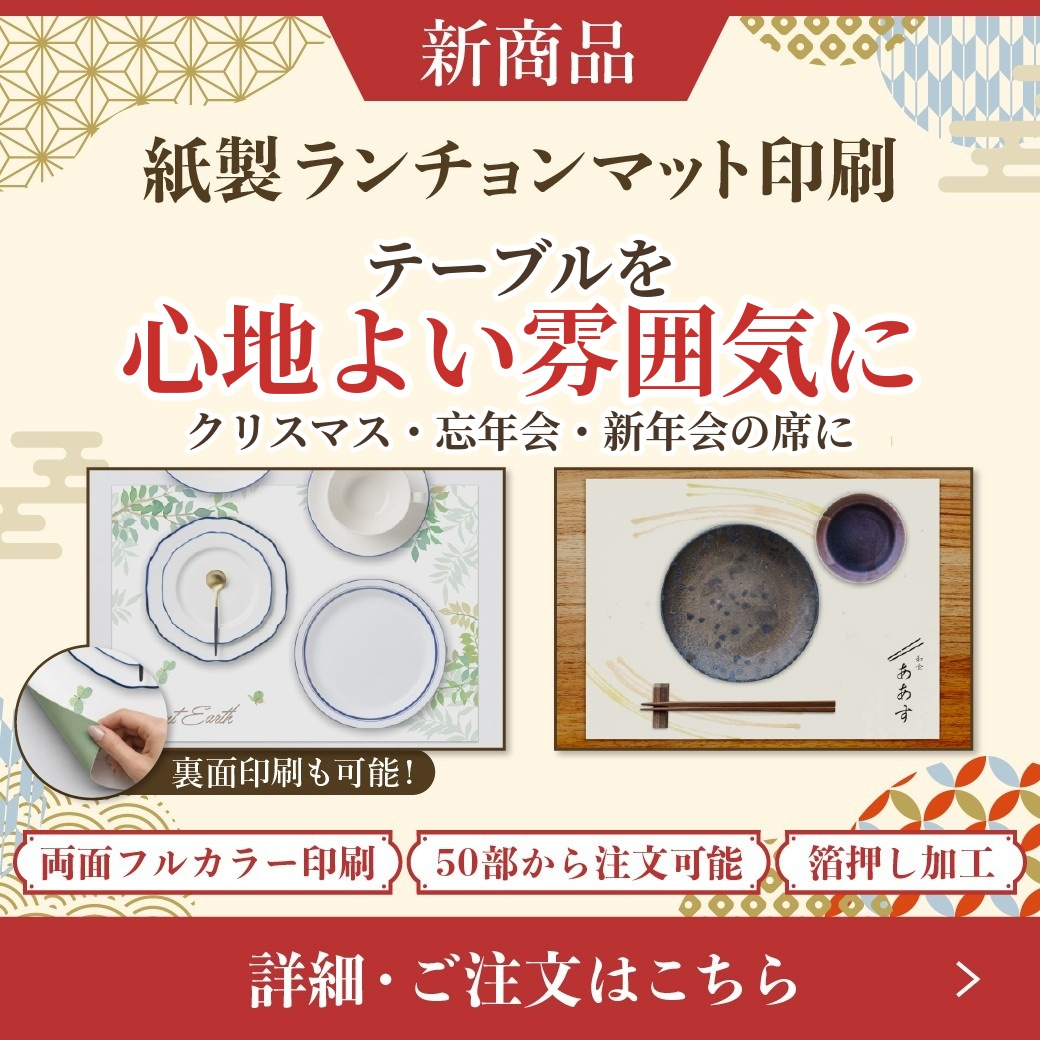
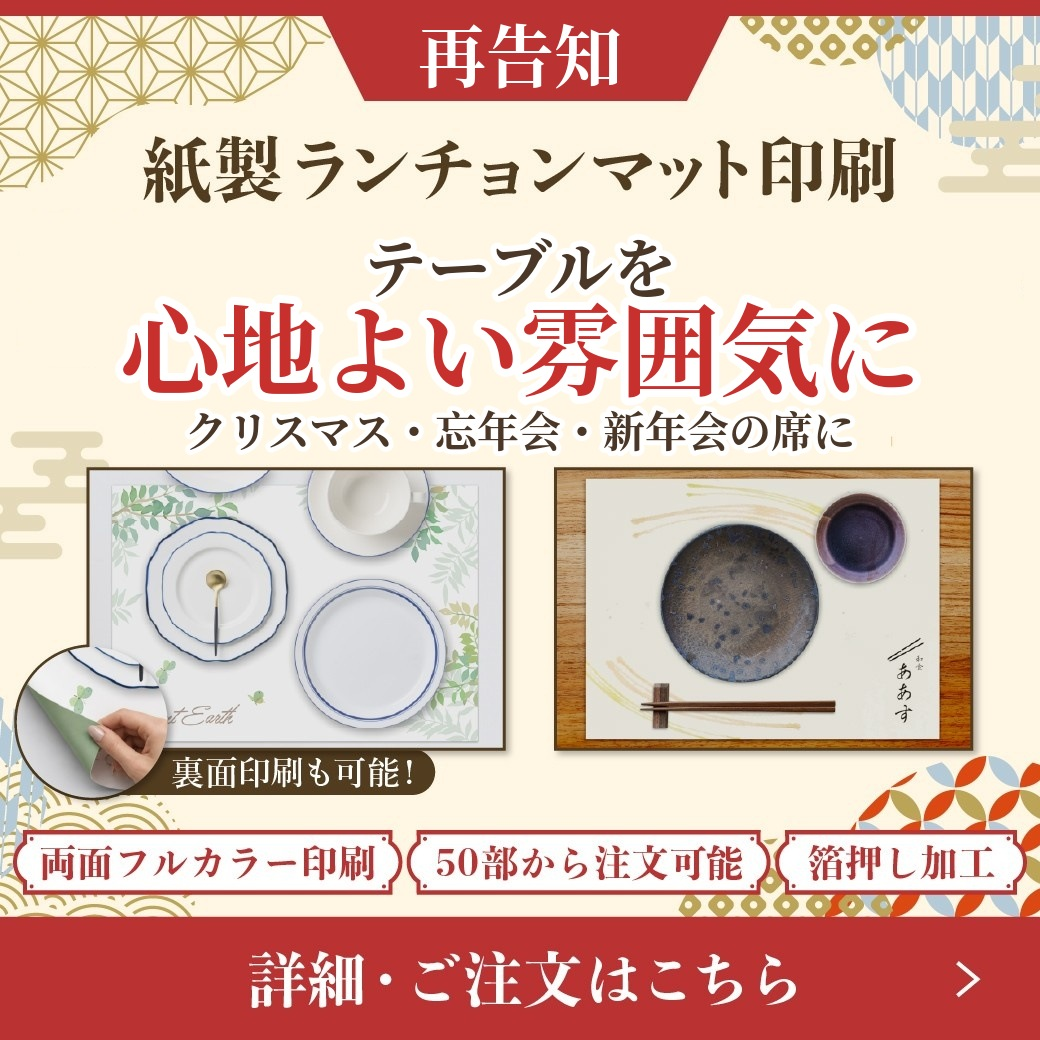
インクアート11/9 ランチョンマット2回目: 帯を「再告知」に
Claude-Session: https://claude.ai/code/session_01CnhQmwwAuo8Vn8DBTM29QG

Changed region(s): [[0.4, 0.0, 0.6154, 0.0923]]

diff --git a/_build/build_inkart_1109_placemat_second.py b/_build/build_inkart_1109_placemat_second.py
@@ -6,7 +6,7 @@
 差し替え：
   主役「紙から おもてなしを」 → 「テーブルを 心地よい雰囲気に」（赤は「心地よい雰囲気に」）
   下の1行「風合い豊かな和紙も選べます」 → 「クリスマス・忘年会・新年会の席に」
-  残す：新商品の帯／紙製ランチョンマット印刷／写真2枚／裏面印刷も可能！／札3つ／ボタン
+  残す：帯（文字は新商品→再告知）／紙製ランチョンマット印刷／写真2枚／裏面印刷も可能！／札3つ／ボタン
 
 使い方: PYTHONPATH=<pylib> python3 _build/build_inkart_1109_placemat_second.py
 出力:  _images/inkart_1109_placemat_second_v1_1040.jpg
@@ -52,6 +52,14 @@ draw_outlined((W - text_w(f_main, s2)) // 2, 272, s2, f_main, RED)
 f_sub = ImageFont.truetype(SERIF, 42, index=2)
 s3 = "クリスマス・忘年会・新年会の席に"
 draw_outlined((W - text_w(f_sub, s3)) // 2, 398, s3, f_sub, BROWN, stroke=5)
+
+# 上の帯「新商品」→「再告知」（殿村さん 10/28）。帯の赤で塗って白文字を載せ直す
+ribbon_red = tuple(int(v) for v in a[50, 385])
+d.rectangle([395, 14, 645, 97], fill=ribbon_red)
+f_rib = ImageFont.truetype(SERIF, 68, index=2)
+s4 = "再告知"
+bb = d.textbbox((0, 0), s4, font=f_rib)
+d.text(((W - (bb[2] - bb[0])) // 2 - bb[0], 56 - (bb[1] + bb[3]) // 2), s4, font=f_rib, fill=WHITE)
 
 im.save(OUT, quality=93)
 print(OUT, im.size)
